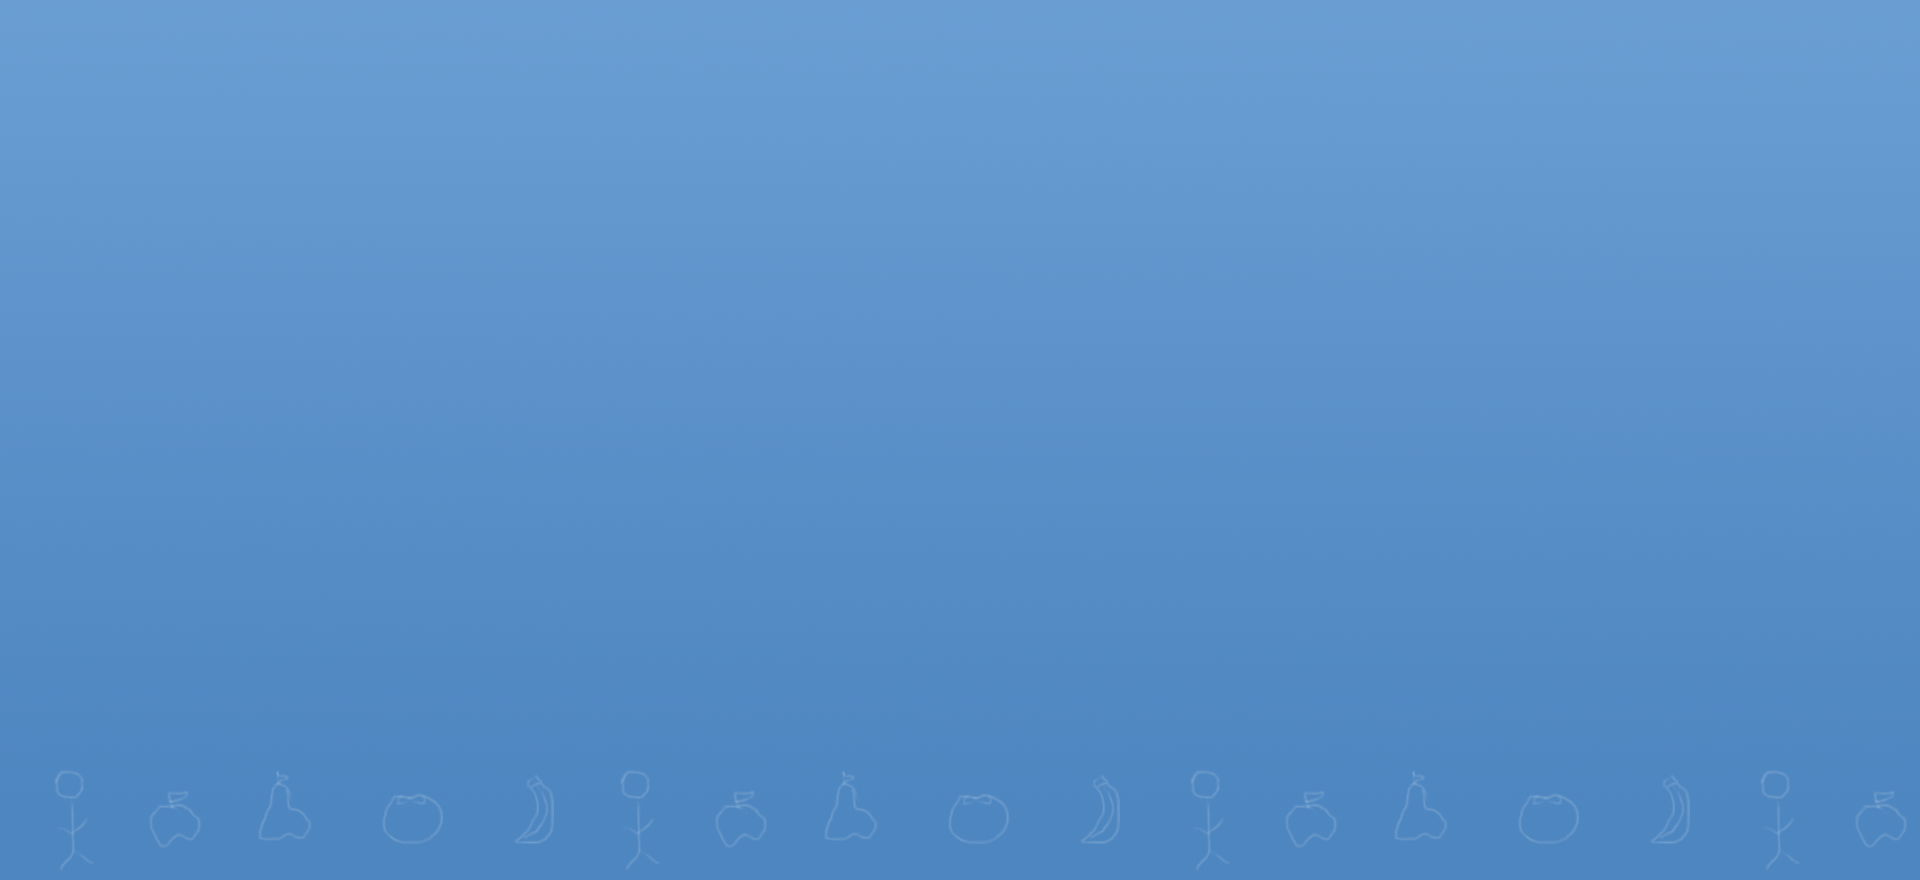
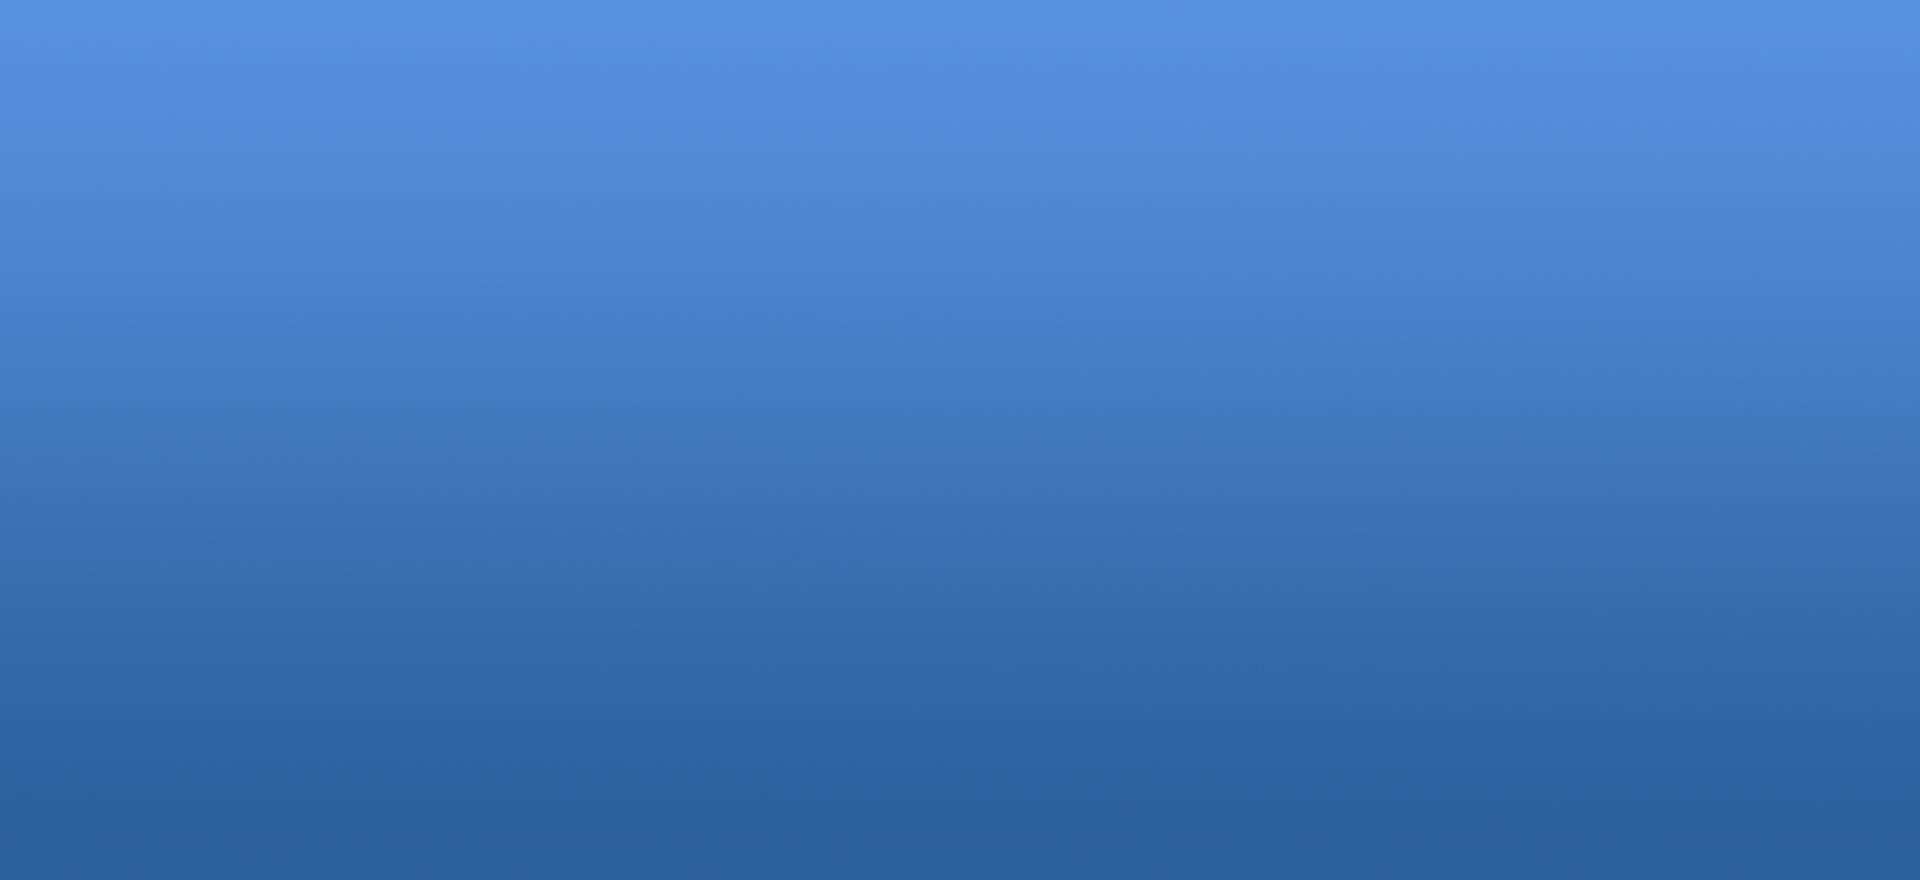
Adding my existing site.

diff --git a/index.html b/index.html
@@ -5,15 +5,18 @@
     <link rel="stylesheet" href="main.css">
 </head>
     
-<body background = "bkg.png">
+<body>
+    <p id="Settings">Settings</p>
     <center>
     <br>
-    <img src="title.png" width="500" height="150" alt="Welcome" />
+    <img src="title.png" width="500" height="120" alt="Welcome" />
     <br><br>
     <span id="score">
     <button class="myButton" onclick="addT1()">+</button>
     <button class="myButton" onclick="minusT1()">-</button>
         </span>
+        <button class="myButton" onclick="clearWord(); timeInt = setInterval(startTimer,1000); setTimeout(stopTimer, 61000)">Start Timer</button>
+    <button class="myButton" onclick="stopTimer()">Stop Timer</button>
         <span id="score">
     <button class="myButton" onclick="addT2()">+</button>
     <button class="myButton" onclick="minusT2()">-</button>
@@ -22,7 +25,8 @@
     <span id="team">
         Team 1: <p id="1"> <br></p>  
     </span> 
-    <button class="myButton" onclick="getWord()">New Word</button>
+    <button class="myButton" id="new" onclick="getWord()">New Word</button>
+    
     
     <span id="team">
         Team 2: 
@@ -30,35 +34,70 @@
     </span> 
     
     
-    
-    
-    <br><br>
+    <br>
     <div>
-    <br><br>
+    <br>
     
     <p id="word">
        
     </p>
-        <br><br>
+      <p id="time"></p>  
+        <br>
+        
         </div>
     <br><br>
         
     <button class="myButton" onclick="addWord()">Add a Word</button>
+    <button class="myButton" onclick="startGame()">Start Game</button>
     <br><br>
     
     </center>
     <script>
-        var words = ["apple", "pear", "orange"];
+        var words = ["apple", "pear", "orange", "The Call of the Wild by Jack London", "A Tale of Two Cities by Charles Dickens", "The Da Vinci Code by Dan Brown", "To Kill a Mockingbird by Harper Lee", "Hitchiker's Guide to the Galaxy by Douglas Adams", "Moby-Dick by Herman Melville", "Kim Possible", "Pokemon", "The Simpsons", "Breaking Bad", "Rugrats", "Aladdin", "Spiderman", "Dumbo", "Harry Potter", "The Matrix", "Shrek", "Star Wars", "Piece of Cake", "Make a mountain out of a molehill", "Don't cry over spilled milk", "Once in a blue moon", "I'm Lovin' It", "tongue-in-cheek","curiosity killed the cat", "swordfish", "pizza", "softball", "Real Madrid", "Quito, Ecuador", "Monsters, Inc.", "Wolf of Wall Street", "Jim and Pam", "peanut butter and jelly", "Oreos", "Frosty the Snowman", "Justin Bieber", "bananagrams", "Rubik's cube", "Call of Duty", "FIFA"];
+        var d = 60;
+        var num = 0;
+        var timeInt;
+        var score1 = 0;
+        var score2 = 0;
         function addWord() {
             var newword = prompt("Type your word or phrase below: ");
             words[words.length] = newword;
         }
         function getWord() {
-            var num = Math.floor(Math.random()*words.length);
+            num++;
             document.getElementById("word").innerHTML = words[num];
         }
-        var score1 = 0;
-        var score2 = 0;
+        function clearWord() {
+            document.getElementById("word").innerHTML = "";
+        }
+        function startGame() {
+            shuffle(words);
+            num=0;
+            getWord();
+            score1 = 0;
+            score2 = 0;
+        }
+        function shuffle(array) {
+            for (var i = array.length - 1; i > 0; i--) {
+                var j = Math.floor(Math.random() * (i + 1));
+                var temp = array[i];
+                array[i] = array[j];
+                array[j] = temp;
+            }
+            return array;
+        }
+        function startTimer() {           
+            d--;
+            document.getElementById("time").innerHTML = d;
+        }
+        function stopTimer() {
+            d=60;
+            clearTimeout(timeInt);
+            document.getElementById("time").innerHTML = "";
+            document.getElementById("word").innerHTML = words[num];
+            
+        }
+        
         function addT1() {
             
             score1=score1+1;
@@ -79,6 +118,6 @@
            score2=score2-1; document.getElementById("2").innerHTML = score2;
         }
     </script>
-</body>
+    </body>
     
 </html>

diff --git a/main.css b/main.css
@@ -1,5 +1,6 @@
 html {
-    
+    background: linear-gradient(#80bfff, #3399ff);
+    height: 100%;
 }
 
 #word {
@@ -10,7 +11,7 @@ html {
 }
 
 div {
-    margin: auto; background-color: azure; border-radius: 5px; border: 2px solid black; width: 600px; 
+    margin: auto; background-color: azure;  width: 600px; 
 }
 
 .myButton {
@@ -29,19 +30,32 @@ div {
 	text-shadow:0px 1px 0px #52442e;
 }
 
+#Settings {
+    text-align: right; color:azure; font-family: Century-Gothic, sans-serif; font-size: 15px; text-decoration: underline; 
+}
+
 #team {
     display: inline-block;
-    padding: 8px; background-color:azure; border-radius: 5px; border: 2px solid black; font-family: Century-Gothic, sans-serif;
+    padding: 8px; background-color: lightslategray; font-family: Century-Gothic, sans-serif; box-shadow: 5px; color: azure;
 }
 
-span + .myButton {
+#time {
+    font-size: 48px; font-family: Century-Gothic, sans-serif;
+}
+#score + .myButton {
+    margin-left: 303px;
+}
+
+.myButton + #score {
+    margin-left: 303px;
+}
+
+span + #new {
     margin-left: 350px;
 }
 
-.myButton + span{
+#new + span{
     margin-left: 350px;
 }
 
-#score + #score {
-    margin-left: 810px;
-}
+
